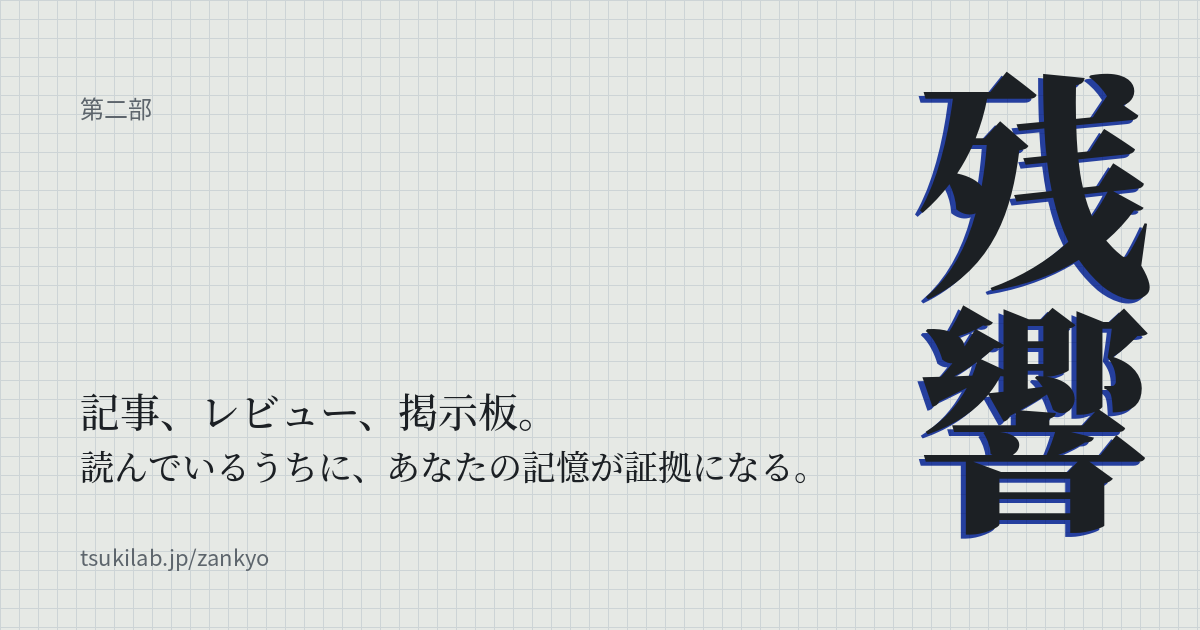
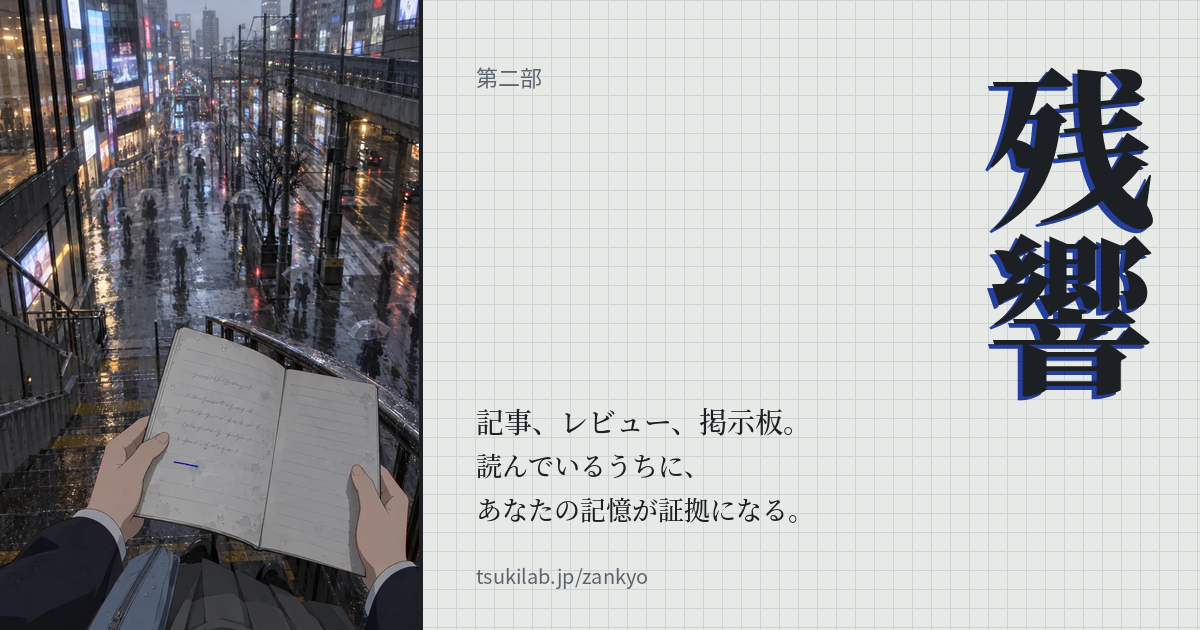
残響：生成画像32枚を配置（WebP化）、OG画像を表紙入りに更新、本棚の揃えを修正
Claude-Session: https://claude.ai/code/session_01J1pcAZzTzFUyckTcNzQVQD

diff --git a/zankyo/assets/zk.js b/zankyo/assets/zk.js
@@ -155,13 +155,19 @@
   });
   applySettings();
 
-  // ------------------------------------------------------------ 画像スロット（assets/img/<名前>.png があれば表示）
+  // ------------------------------------------------------------ 画像スロット（assets/img/<名前>.webp、なければ .png を表示）
   function loadSlots(scope = doc) {
     $$('.slot[data-slot]', scope).forEach(fig => {
       if (fig.dataset.tried) return; fig.dataset.tried = '1';
-      const img = new Image(); img.decoding = 'async'; img.alt = '';
-      img.onload = () => { fig.appendChild(img); fig.classList.add('has-img'); };
-      img.src = `${ROOT}assets/img/${fig.dataset.slot}.png`;
+      const exts = ['webp', 'png'];
+      const tryNext = () => {
+        const ext = exts.shift(); if (!ext) return;
+        const img = new Image(); img.decoding = 'async'; img.alt = '';
+        img.onload = () => { fig.appendChild(img); fig.classList.add('has-img'); };
+        img.onerror = tryNext;
+        img.src = `${ROOT}assets/img/${fig.dataset.slot}.${ext}`;
+      };
+      tryNext();
     });
   }
   loadSlots();

diff --git a/zankyo/assets/zk.css b/zankyo/assets/zk.css
@@ -568,3 +568,17 @@ body:not(.k-chapter) .progress{display:none}
   .bar,.foot,.ch-end,.resume,.sheet,.toast,.drawer{display:none!important}
   body{background:#fff;color:#000}
 }
+
+/* 本棚：背表紙の下端を一本の棚板に揃える */
+.spines{grid-template-rows:auto auto;align-items:end;row-gap:0}
+.spine{display:grid;grid-row:span 2;grid-template-rows:subgrid}
+.spine a{margin-top:0;align-self:end}
+.spine-card{align-self:start}
+.spine-part,.spine-meta{flex-shrink:0;white-space:nowrap}
+.spine--mega .spine-title{white-space:nowrap;font-size:clamp(1rem,2.4vw,1.5rem)}
+@media (max-width:640px){
+  .spine--mega .spine-meta{display:none}
+  .spine--mega a{height:clamp(240px,62vw,300px)}
+}
+.reader--mega .slot--chapter{margin-block:1rem 1.75rem}
+:root[data-dir="tate"] .text .slot{display:none!important}

diff --git a/zankyo/_build/make_og.py b/zankyo/_build/make_og.py
@@ -97,5 +97,45 @@ def icons():
     svg = """<svg xmlns="http://www.w3.org/2000/svg" viewBox="0 0 64 64"><rect width="64" height="64" rx="10" fill="#e6e9e5"/><circle cx="32" cy="32" r="23" fill="none" stroke="#1c2024" stroke-width="3.5"/><line x1="32" y1="32" x2="32" y2="15" stroke="#1c2024" stroke-width="4" stroke-linecap="round"/><line x1="32" y1="32" x2="45" y2="32" stroke="#1c2024" stroke-width="4" stroke-linecap="round"/><line x1="29" y1="35" x2="31" y2="12" stroke="#2a45b0" stroke-width="2"/></svg>"""
     (OUT / "favicon.svg").write_text(svg, encoding="utf-8")
 
+
+
+# ---------------------------------------------------------------- 表紙画像があれば、左に表紙・右に文字のOGにする
+def load_cover(name):
+    for ext in ("webp", "png"):
+        f = OUT / "img" / f"{name}.{ext}"
+        if f.exists():
+            im = Image.open(f).convert("RGB")
+            return im.resize((round(im.width * 630 / im.height), 630), Image.LANCZOS)
+    return None
+
+def og_cover(out, cover, bg, ink, sub, lines, foot, title=None, title_vertical=None):
+    cov = load_cover(cover)
+    if cov is None:
+        return False
+    img = Image.new("RGB", (1200, 630), bg)
+    if bg == PAPER: grid(img)
+    img.paste(cov, (0, 0)); w = cov.width
+    d = ImageDraw.Draw(img); d.line([(w, 0), (w, 630)], fill=INK, width=4)
+    x = w + 56
+    d.text((x, 60), sub, font=font(SANS, 22), fill=PENCIL if bg == PAPER else (160, 166, 170))
+    if title_vertical:
+        img = misregistered(img, 1200 - 210, 60, title_vertical, 170)
+        d = ImageDraw.Draw(img)
+    if title:
+        f = font(SERIF_B, title[1])
+        for i, line in enumerate(title[0]):
+            d.text((x - 3, 110 + i * (title[1] + 12) + 3), line, font=f, fill=(70, 92, 190))
+            d.text((x, 110 + i * (title[1] + 12)), line, font=f, fill=ink)
+    y = 400
+    for size, line in lines:
+        d.text((x, y), line, font=font(SERIF_M, size), fill=ink); y += size + 18
+    d.text((x, 560), foot, font=font(SANS, 20), fill=PENCIL if bg == PAPER else (150, 156, 160))
+    img.save(OUT / "og" / out, optimize=True)
+    return True
+
 og_site(); og_as(); og_echo(); og_mega(); icons()
+og_cover("og-site.png", "hero", PAPER, INK, "三つの小説と、その資料室", [(30, "詩集は三日前から"), (30, "同じページで開いていた。")], "tsukilab.jp/zankyo", title_vertical="残響")
+og_cover("og-as.png", "cover-as", INK, PAPER, "第一部", [(28, "証拠を信じる探偵と、"), (28, "娘を覚えている父親。")], "残響 ／ tsukilab.jp/zankyo", title=(["ARTIFICIAL", "SALVATION"], 64))
+og_cover("og-echo.png", "cover-echo", PAPER, INK, "第二部", [(28, "記事、レビュー、掲示板。"), (26, "読んでいるうちに、"), (26, "あなたの記憶が証拠になる。")], "tsukilab.jp/zankyo", title_vertical="残響")
+og_cover("og-mega.png", "cover-mega", (201, 207, 198), (34, 40, 42), "関連作　深夜の図書館（ミラー）", [(30, "第3話だけが、"), (30, "残っていない。")], "残響 関連作 ／ tsukilab.jp/zankyo", title=(["メガラバニア"], 64))
 print("ok")
